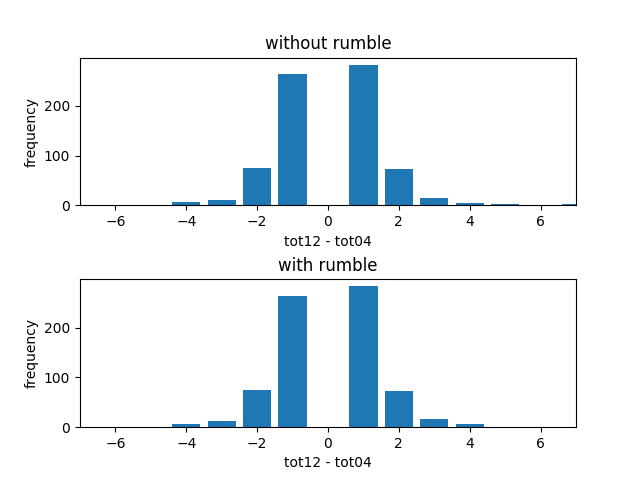
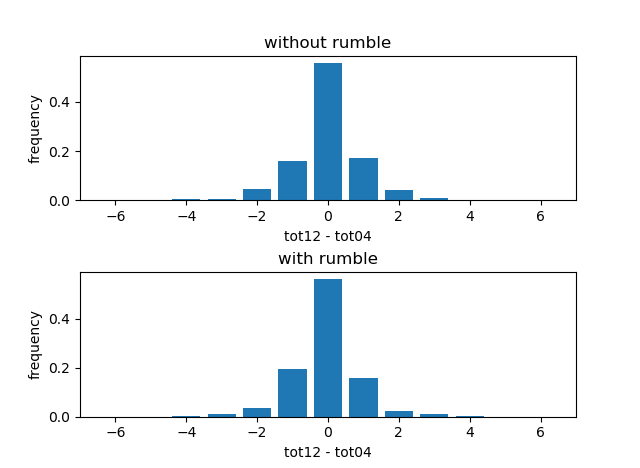
.

diff --git a/Statistical Methods/PennCrashTwoSampleTTest.py b/Statistical Methods/PennCrashTwoSampleTTest.py
@@ -1,0 +1,189 @@
+import os
+import pandas as pd
+import matplotlib.pyplot as plt
+import matplotlib.mlab as mlab
+from scipy import stats
+width_category = {'<= 20':0, '> 20 and < 24':1, '>= 24':2}
+shoulder_category = {'<= 3': 0, '> 3 and <= 6': 1, '> 6': 2}
+driveways_category = {'None':0, '> 0 and <= 10':1, '> 10': 2}
+curves_category = {'None':0, '>= 1':1}
+intersection_category = {'None':0, '>= 1':1}
+speed_category = {'Low':0, 'High':1}
+crash = pd.read_csv("PennCrash.csv")
+crash["hasCrash04"] = [1 if x > 0 else 0 for x in crash["adt04"]]
+crash["totDiff"] = [y - x for x, y in zip(crash["tot04"], crash["tot12"])]
+
+lengthVSCrash = {}
+lengthVSLoad = {}
+loadVSCrash = {}
+curvatureVSCrash = {}
+curveVSCrash = {}
+intersectionVSCrash = {}
+drivewaysVSCrash = {}
+speedVSCrash = {}
+
+# two sample t-test on crash differences
+treatDiff = [x for x, y in zip(crash["totDiff"], crash["Treat"]) if y]
+untreatDiff = [x for x, y in zip(crash["totDiff"], crash["Treat"]) if not y]
+t, p = stats.ttest_ind(treatDiff, untreatDiff)
+print('t value:{}, p value: {}'.format(t, p))
+
+treatDiffDistribution = {}
+untreatDiffDistribution = {}
+for diff in treatDiff:
+    treatDiffDistribution[diff] = treatDiffDistribution.get(diff, 0) + 1
+for diff in untreatDiff:
+    untreatDiffDistribution[diff] = untreatDiffDistribution.get(diff, 0) + 1
+        
+treatDiffX = [k for k in treatDiffDistribution.keys()]
+treatDiffX.sort()
+treatDiffY = [treatDiffDistribution[x] for x in treatDiffX]
+treatDiffY = [y/sum(treatDiffY) for y in treatDiffY]
+
+untreatDiffX = [k for k in untreatDiffDistribution.keys()]
+untreatDiffX.sort()
+untreatDiffY = [untreatDiffDistribution[x] for x in untreatDiffX]
+untreatDiffY = [y/sum(untreatDiffY) for y in untreatDiffY]
+
+plt.subplots_adjust(hspace=0.5)
+ax1=plt.subplot(2, 1, 1)
+ax1.set_title('without rumble')
+ax1.set_xlabel('tot12 - tot04')
+ax1.set_ylabel('frequency')
+ax1.set_xlim([-7, 7])
+plt.bar(untreatDiffX, untreatDiffY)
+
+ax2=plt.subplot(2, 1, 2)
+ax2.set_title('with rumble')
+ax2.set_xlabel('tot12 - tot04')
+ax2.set_ylabel('frequency')
+ax2.set_xlim([-7, 7])
+plt.bar(treatDiffX, treatDiffY)
+plt.show()
+
+crash04 = {}
+crash12 = {}
+for treat, tot04, tot12 in zip(crash["Treat"], crash["tot04"], crash["tot12"]):
+    if treat == 0: continue
+    crash04[tot04] = crash04.get(tot04, 0) + 1
+    crash12[tot12] = crash12.get(tot12, 0) + 1
+crash04X = [k for k in crash04.keys()]
+crash04X.sort()
+crash04Y = [crash04[x] for x in crash04X]
+
+crash12X = [k for k in crash12.keys()]
+crash12X.sort()
+crash12Y = [crash12[x] for x in crash12X]
+
+plt.subplots_adjust(hspace=0.5)
+ax1=plt.subplot(2, 1, 1)
+ax1.set_title('crash # distribution before treat')
+ax1.set_xlabel('# crash')
+ax1.set_ylabel('frequency')
+#ax1.set_xlim([-7, 7])
+plt.bar(crash04X, crash04Y)
+
+ax2=plt.subplot(2, 1, 2)
+ax2.set_title('crash # distribution after treat')
+ax2.set_xlabel('# crash')
+ax2.set_ylabel('frequency')
+#ax2.set_xlim([-7, 7])
+plt.bar(crash12X, crash12Y)
+plt.show()
+
+
+
+catCnt = {}
+for x, y in zip(crash["tot04"], crash["speed"]):
+    if x == 0: continue
+    #lengthVSCrash += [round(y, 2)]*x
+    speedVSCrash[speed_category[y]] = speedVSCrash.get(speed_category[y], 0) + x
+    catCnt[speed_category[y]] = catCnt.get(speed_category[y], 0)+1
+X = list(speedVSCrash.keys())
+X.sort()
+Y = [speedVSCrash[x]/catCnt[x] for x in X]
+plt.bar(X, Y)
+plt.xlabel('driveways category')
+plt.ylabel('# crashes')
+plt.show()
+"""
+for x, y in zip(crash["tot04"], crash["intersections"]):
+    #lengthVSCrash += [round(y, 2)]*x
+    intersectionVSCrash += [intersection_category[y]]*x
+n, bins, patches = plt.hist(intersectionVSCrash, 3, facecolor='blue', alpha=0.5)
+plt.hist(intersectionVSCrash, 3, facecolor='blue', alpha=0.5)
+plt.xlabel('has intersection')
+plt.ylabel('# crashes')
+plt.show()
+"""
+
+ax3=plt.subplot(2, 1, 1)
+ax3.set_title('adt04 vs # Crashes')
+ax3.set_xlabel('AADT')
+ax3.set_ylabel('# crashes')
+for x, y in zip(crash["tot04"], crash["adt04"]):
+    loadVSCrash += [round(y)]*x
+n, bins, patches = plt.hist(loadVSCrash, 100, facecolor='blue', alpha=0.5)
+
+loadVSCrash = []
+ax3=plt.subplot(2, 1, 2)
+ax3.set_title('adt12 vs # Crashes')
+ax3.set_xlabel('AADT')
+ax3.set_ylabel('# crashes')
+for x, y in zip(crash["tot12"], crash["adt12"]):
+    loadVSCrash += [round(y)]*x
+n, bins, patches = plt.hist(loadVSCrash, 100, facecolor='blue', alpha=0.5)
+
+"""
+plt.subplots_adjust(hspace=0.5)
+ax1=plt.subplot(3, 1, 1)
+ax1.set_title('Horizontal Curve Existence vs # Crashes')
+ax1.set_xlabel('has curves')
+ax1.set_ylabel('# crashes')
+for x, y in zip(crash["tot04"], crash["curves"]):
+    #lengthVSCrash += [round(y, 2)]*x
+    lengthVSCrash += [curves_category[y]]*x
+n, bins, patches = plt.hist(lengthVSCrash, 3, facecolor='blue', alpha=0.5)
+
+ax2=plt.subplot(3, 1, 2)
+ax2.set_title('Curvature vs # Crashes')
+ax2.set_xlabel('curve degree')
+ax2.set_ylabel('# crashes')
+for x, y in zip(crash["tot04"], crash["curvature"]):
+    curvatureVSCrash += [y]*x
+n, bins, patches = plt.hist(curvatureVSCrash, 100, facecolor='blue', alpha=0.5)
+"""
+
+
+
+"""
+plt.figure(1)
+plt.subplots_adjust(hspace=0.5)
+ax1=plt.subplot(3, 1, 1)
+ax1.set_title('Roadway Segment Length vs # Crashes')
+ax1.set_xlabel('length (mile)')
+ax1.set_ylabel('# crashes')
+for x, y in zip(crash["tot04"], crash["length"]):
+    #lengthVSCrash += [round(y, 2)]*x
+    lengthVSCrash += [y]*x
+n, bins, patches = plt.hist(lengthVSCrash, 50, facecolor='blue', alpha=0.5)
+
+ax2=plt.subplot(3, 1, 2)
+ax2.set_title('Curvature vs # Crashes')
+ax2.set_xlabel('curve degree')
+ax2.set_ylabel('# crashes')
+for x, y in zip(crash["tot04"], crash["curvature"]):
+    curvatureVSCrash += [y]*x
+n, bins, patches = plt.hist(curvatureVSCrash, 100, facecolor='blue', alpha=0.5)
+
+ax3=plt.subplot(3, 1, 3)
+ax3.set_title('Annual Average Daily Traffic vs # Crashes')
+ax3.set_xlabel('AADT')
+ax3.set_ylabel('# crashes')
+for x, y in zip(crash["tot04"], crash["adt04"]):
+    loadVSCrash += [round(y)]*x
+n, bins, patches = plt.hist(loadVSCrash, 50, facecolor='blue', alpha=0.5)
+#crash.hist(bins=50, column=['adt04', 'adt08', 'adt12', 'length'])
+#
+"""
+
